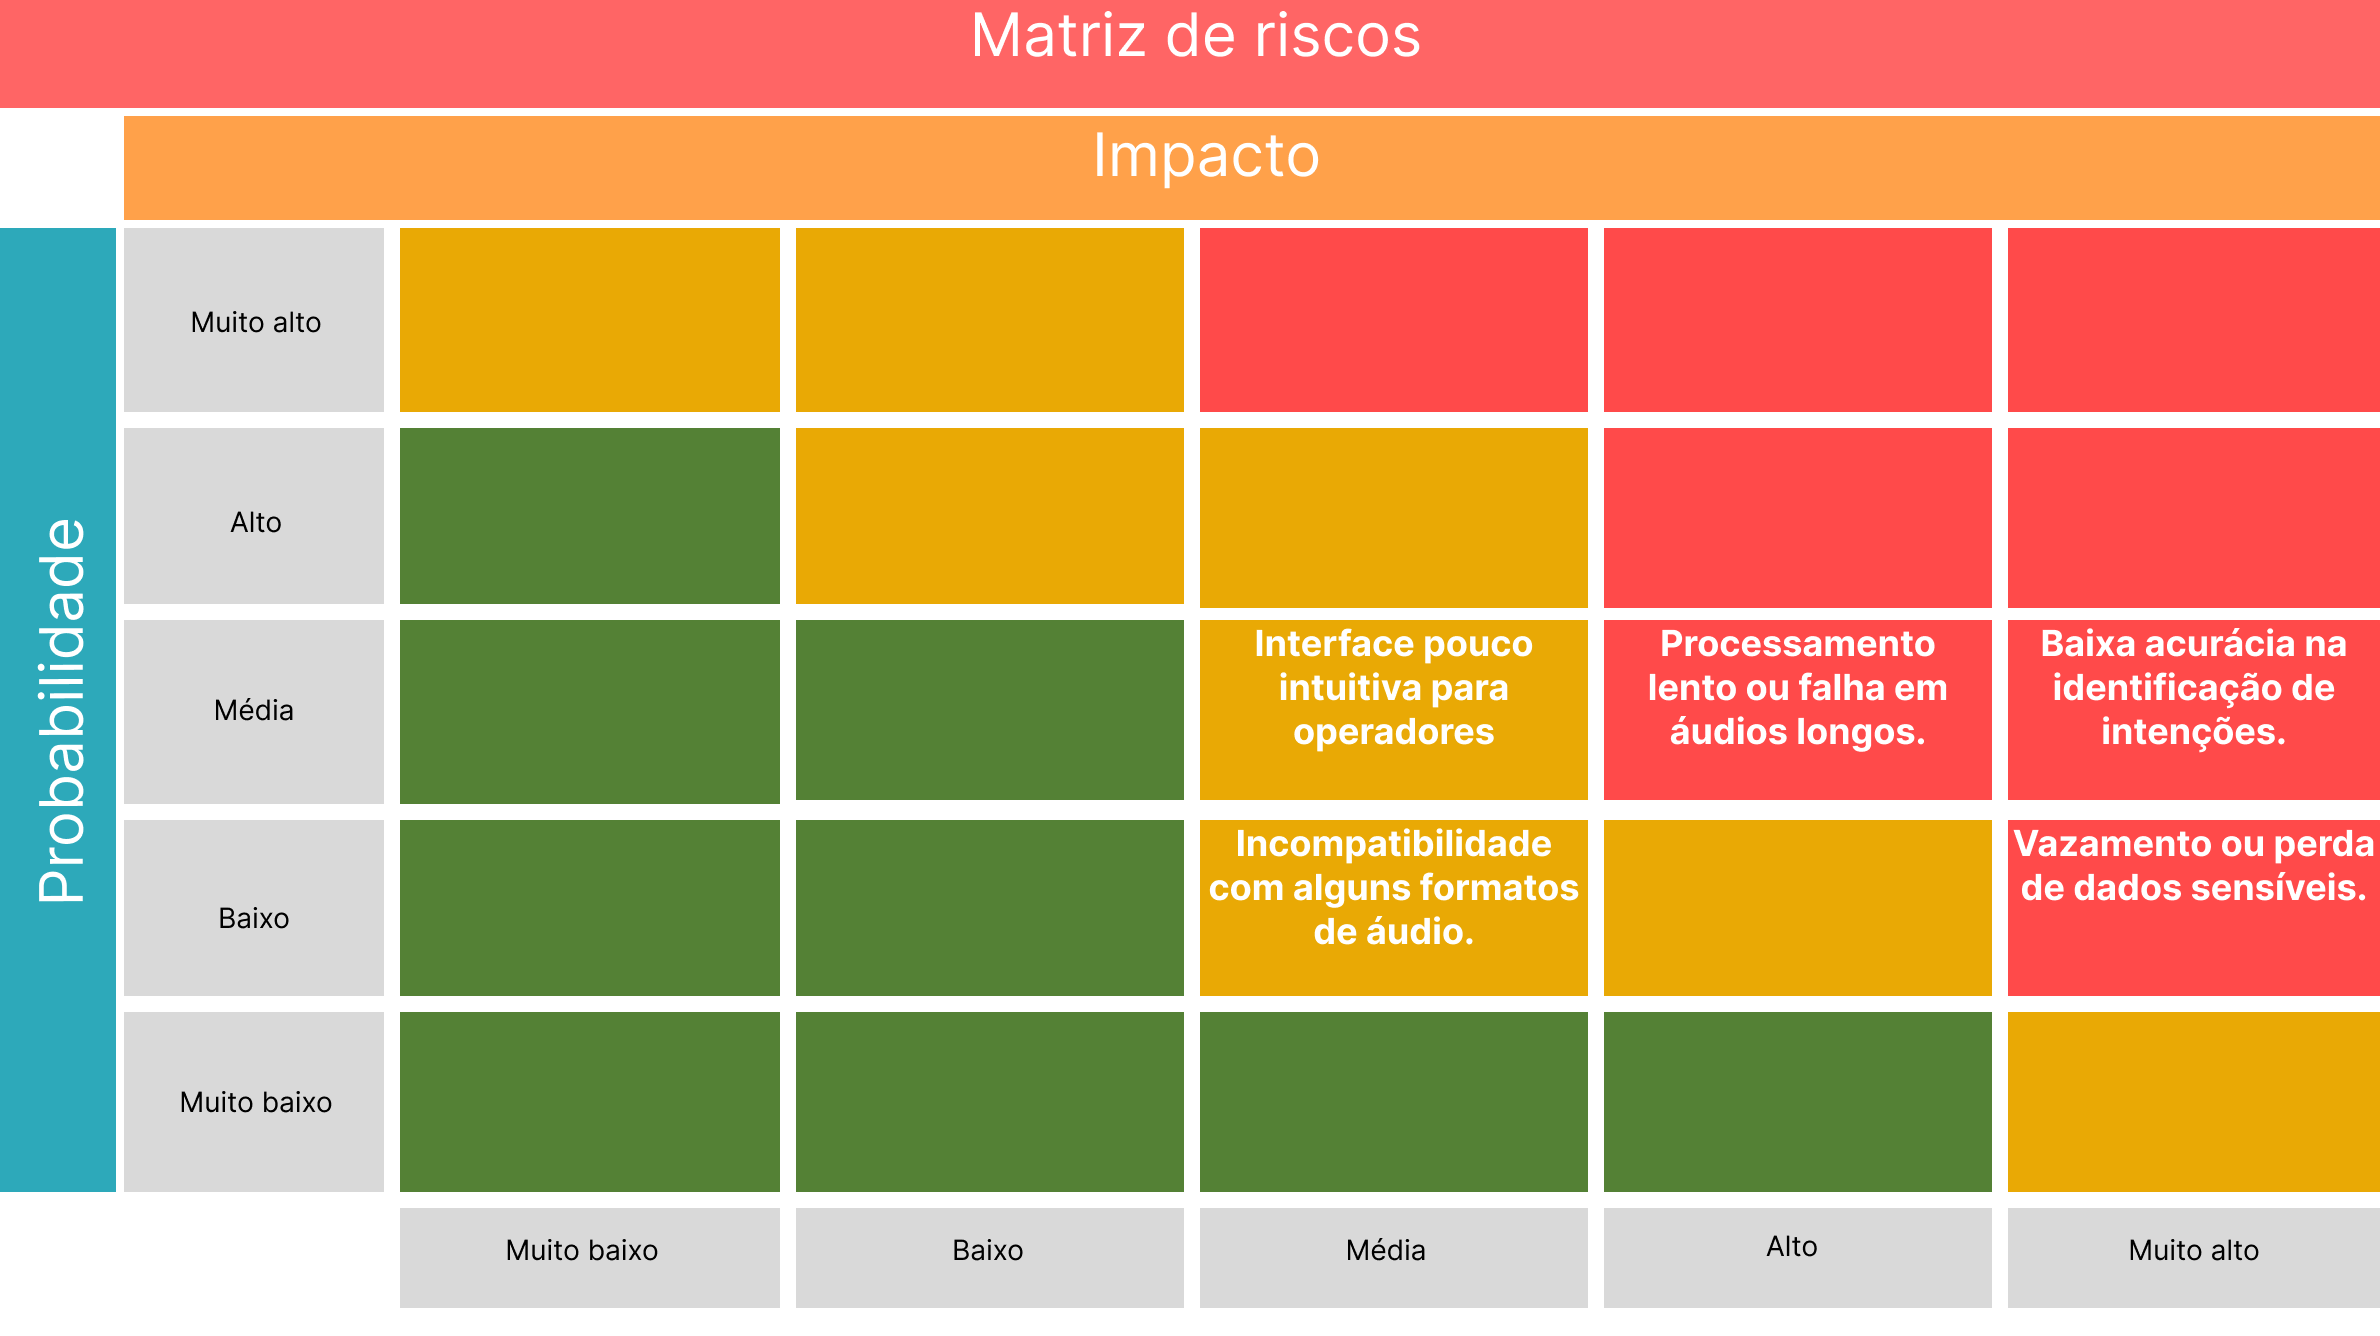
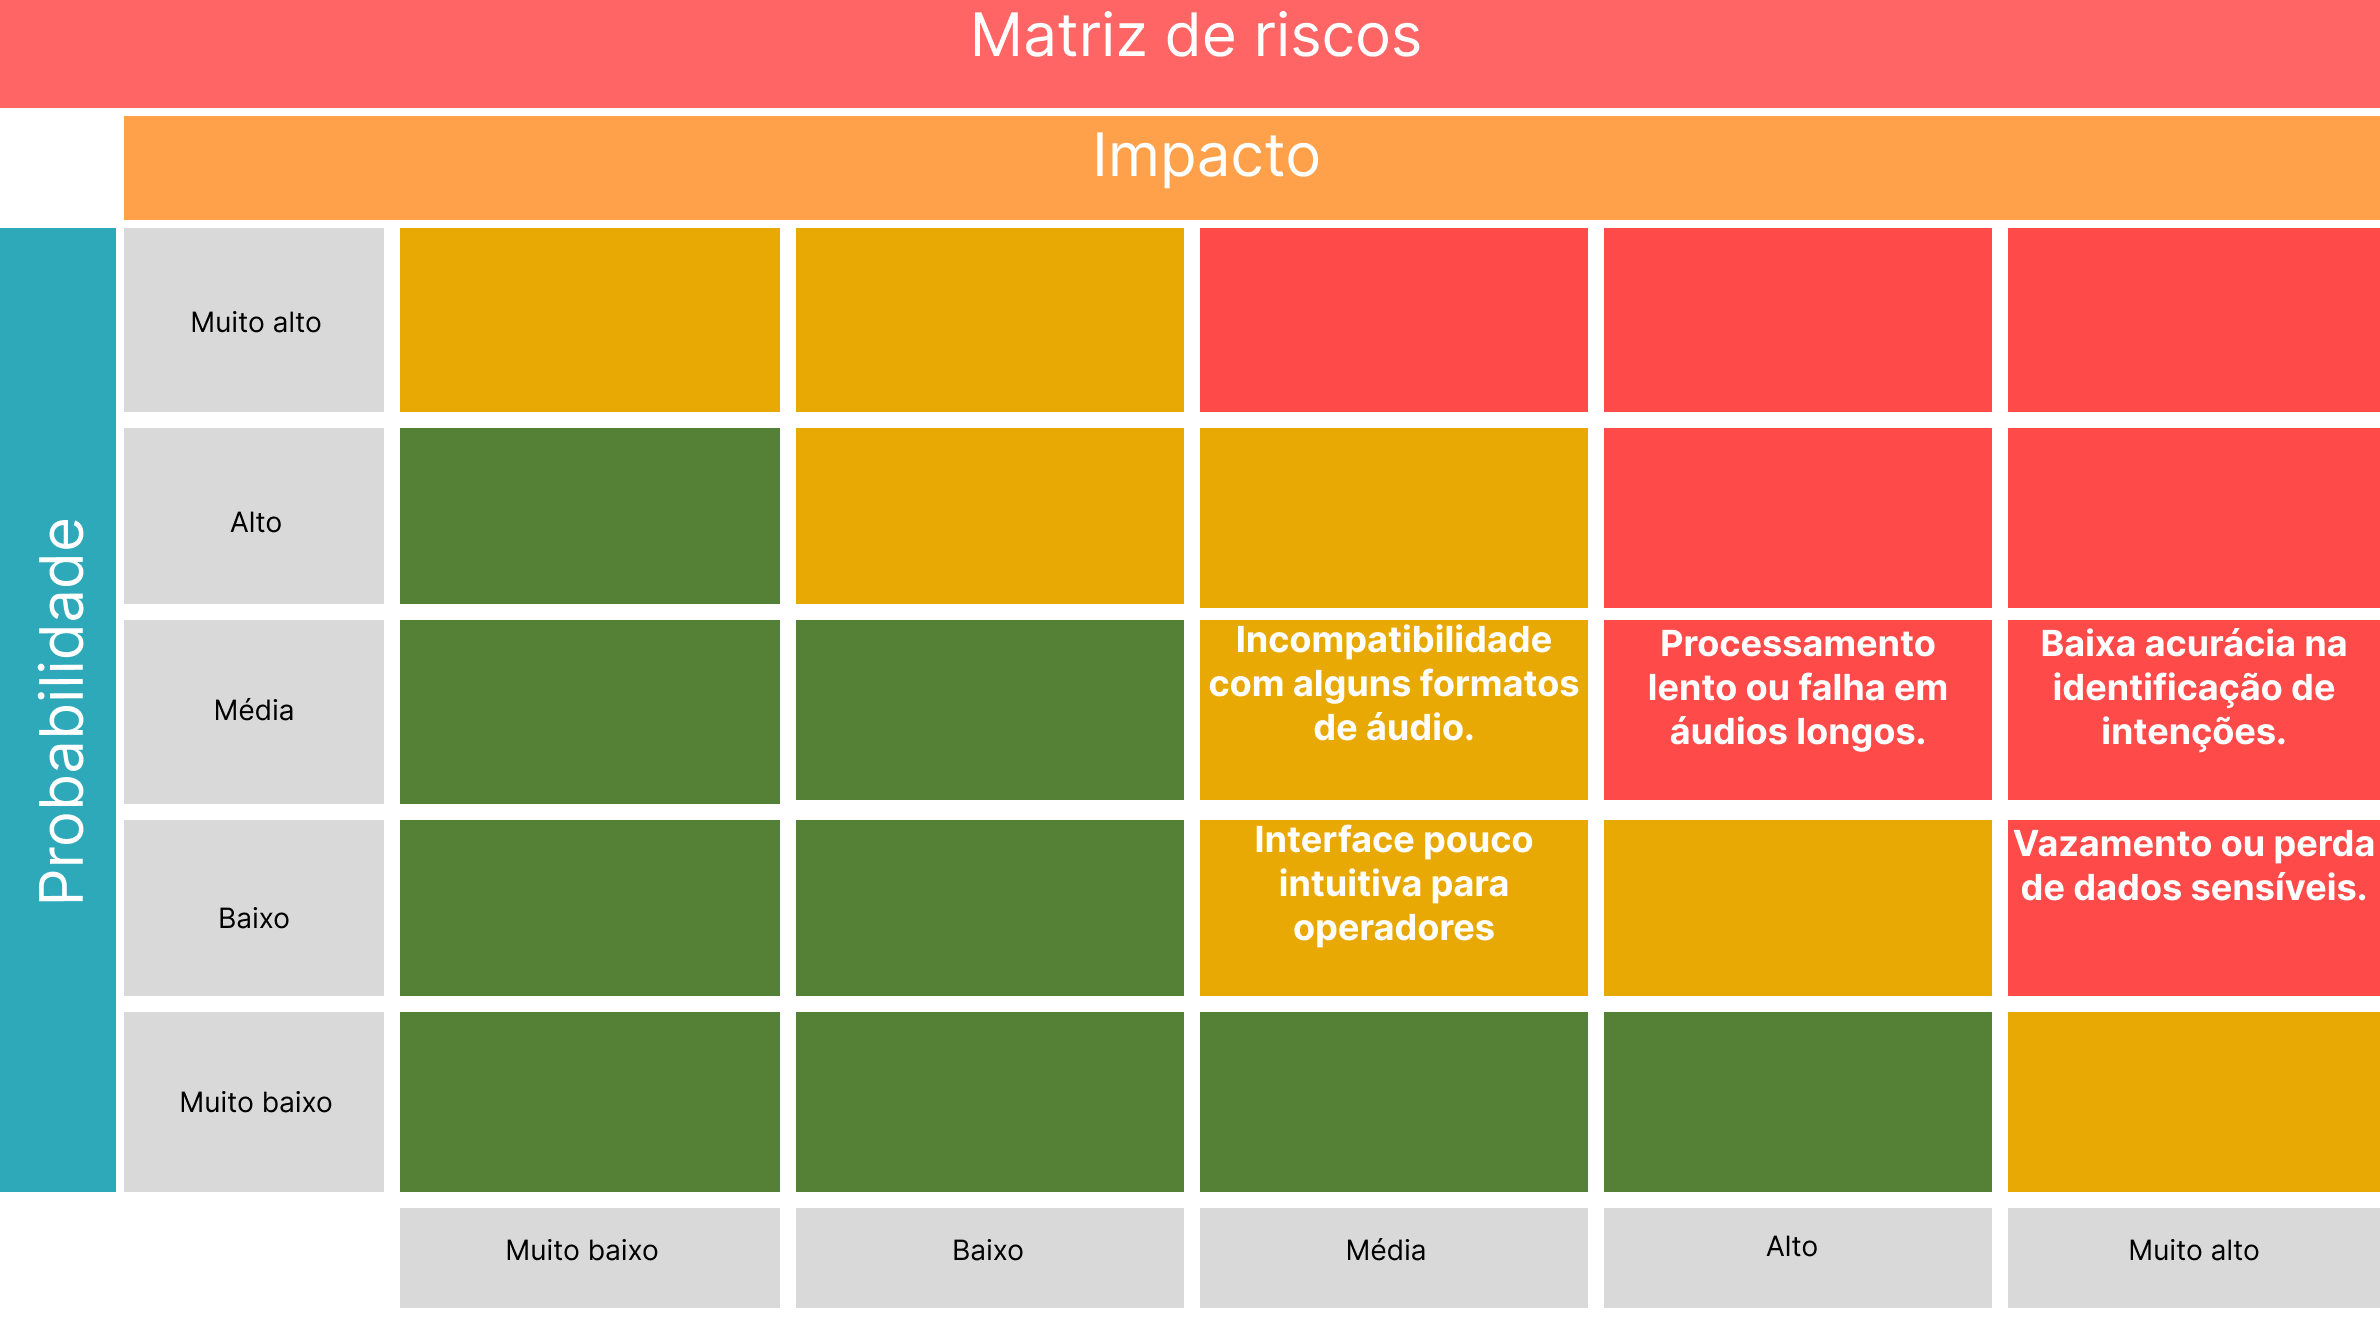
docs: matriz de oportunidades.
matriz de oportunidades.

Changed region(s): [[0.4975, 0.4603, 0.684, 0.5831], [0.4975, 0.6138, 0.684, 0.7058]]

diff --git a/documentos/Projeto.md b/documentos/Projeto.md
@@ -123,9 +123,11 @@ _conteúdo_
 
 ## 2.6 Matriz de Risco do Projeto
 
+### Matriz de Risco
+
 &emsp;Nesta seção se encontra a matriz de riscos do projeto.
 
-<div align="center"> <sub>Imagem 2.6.1 - Requisitos Não Funcionais</sub><br>
+<div align="center"> <sub>Imagem 2.6.1 - Matriz de Riscos</sub><br>
 
 
 <img src="img/section2/matriz_riscos.png" alt="Matriz de riscos" border="0">
@@ -135,18 +137,46 @@ _conteúdo_
 
 
 
-<div align="center"> <sub>Tabela 2.6.1 - Requisitos Não Funcionais</sub><br>
+<div align="center"> <sub>Tabela 2.6.1 - Tabela de Riscos</sub><br>
 
 | Nº | Risco                                         | Probabilidade | Impacto    | Mitigação                                                                                 |
 | -- | --------------------------------------------- | ------------- | ---------- | ----------------------------------------------------------------------------------------- |
 | 1  | Processamento lento ou falha em áudios longos | Média         | Alto       | Otimizar algoritmos de transcrição; usar processamento assíncrono; limitar simultaneidade |
 | 2  | Baixa acurácia na identificação de intenções  | Média         | Muito alto       | Treinar e validar modelos com dados variados; implementar feedback para correção manual   |
 | 3  | Vazamento ou perda de dados sensíveis         | Baixa         | Muito Alto | Implementar criptografia local; políticas rígidas de acesso; logs de auditoria            |
-| 4  | Interface pouco intuitiva para operadores     | Média         | Médio      | Realizar testes de usabilidade; coletar feedback dos usuários e iterar no design          |
-| 5  | Incompatibilidade com formatos de áudio       | Baixa         | Médio      | Suportar múltiplos formatos comuns; validar arquivos antes do processamento               |
+| 4  | Interface pouco intuitiva para operadores     | Baixa         | Média      | Realizar testes de usabilidade; coletar feedback dos usuários e iterar no design          |
+| 5  | Incompatibilidade com formatos de áudio       | Média         | Média      | Suportar múltiplos formatos comuns; validar arquivos antes do processamento               |
 
 <sup>Fonte: Material produzido pelos autores (2025)</sup>
 </div>
+
+### Matriz de Oportunidade
+
+&emsp;Nesta seção se encontra a matriz de riscos do projeto.
+
+<div align="center"> <sub>Imagem 2.6.2 - Matriz de Oportunidades</sub><br>
+
+
+<img src="img/section2/matriz_oportunidades.png" alt="Matriz de oportunidades" border="0">
+
+<sup>Fonte: Material produzido pelos autores (2025)</sup>
+</div>
+
+
+
+<div align="center"> <sub>Tabela 2.6.2 - Tabela de Oportunidades</sub><br>
+
+| Nº | Oportunidade                                                | Probabilidade | Impacto | Mitigação/Ação Potencial                                                                 |
+| -- | ----------------------------------------------------------- | ------------- | ------- | ---------------------------------------------------------------------------------------- |
+| 3  | Oferecer relatórios automáticos com métricas de atendimento | Alta          | Médio   | Desenvolver módulo de relatórios integrado; coletar métricas-chave de forma automatizada |
+| 4  | Integrar análise de sentimentos mais detalhada              | Média         | Alto    | Implementar modelos de NLP mais avançados e treinar com dados específicos da empresa     |
+| 8  | Incorporar tradução automática das transcrições             | Baixa          | Alto    | Integrar APIs de tradução; permitir configuração de idiomas prioritários                 |
+| 10 | Criar interface personalizável para operadores              | Alta          | Médio   | Adicionar opções de layout, atalhos e personalização de dashboards                       |
+
+
+<sup>Fonte: Material produzido pelos autores (2025)</sup>
+</div>
+
 
 ## 2.7 Ideação
 _conteúdo_
